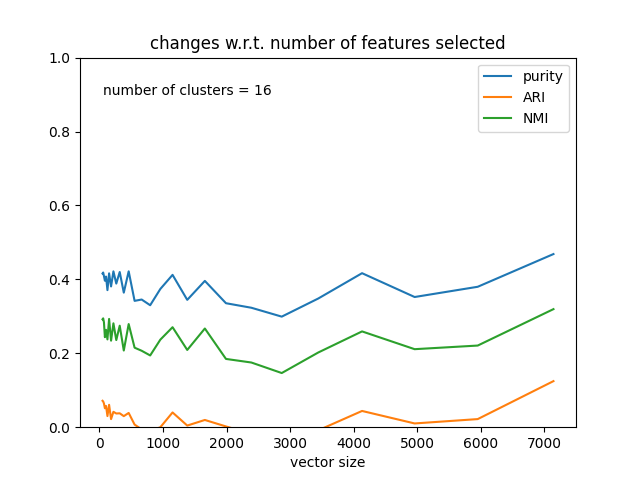
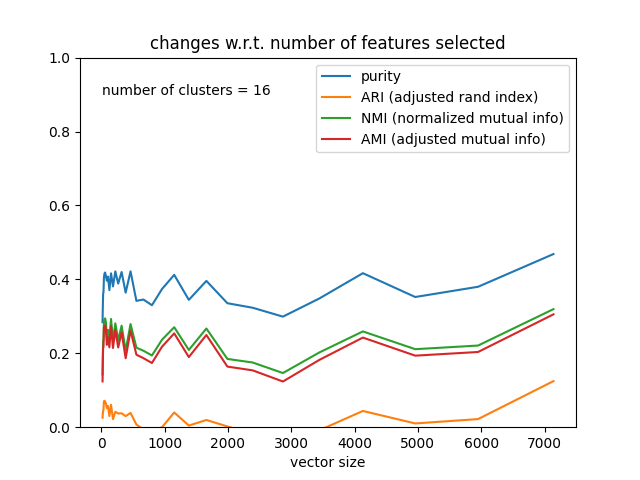
some graphs

diff --git a/Phase3/KMeansClustering.py b/Phase3/KMeansClustering.py
@@ -25,7 +25,7 @@ class KMeansClustering:
             cls.vector_list = TFIDF.document_vector_list
             cls.reference_label_list = TFIDF.reference_label_list
         elif vectorization_mode == WORD2VEC_MODE:
-            w2v = Word2vec(4, 2000, 3, 3, 1)
+            w2v = Word2vec(2, 2000, 3, 3, 1)
             cls.vector_list, cls.link_list, cls.reference_label_list = w2v.createVectorsOfSentenceByPath(FARSI_DOCUMENTS_PATH)
 
     @classmethod
@@ -75,7 +75,7 @@ class KMeansClustering:
 
     @classmethod
     def evaluate(cls):
-        return evaluate_clustering(cls.get_k(), cls.label_list, cls.reference_label_list)
+        return evaluate_clustering(cls.label_list, cls.reference_label_list)
 
     @classmethod
     def get_graphical_results(cls, vectorization_mode=TFIDF_MODE):
@@ -87,7 +87,7 @@ class KMeansClustering:
         AMI_list = []
 
         cls.cluster(vectorization_mode=vectorization_mode)
-        evaluation = evaluate_clustering(cls.get_k(), cls.label_list, cls.reference_label_list)
+        evaluation = evaluate_clustering(cls.label_list, cls.reference_label_list)
         k = len(cls.vector_list[0])
         k_list.append(k)
         purity_list.append(evaluation['purity'])
@@ -99,24 +99,26 @@ class KMeansClustering:
         while k > cls.get_k():
             new_vectors = cls.select_k_best_features(k)
             cls.cluster(vectors=new_vectors, vectorization_mode=vectorization_mode)
-            evaluation = evaluate_clustering(cls.get_k(), cls.label_list, cls.reference_label_list)
+            evaluation = evaluate_clustering(cls.label_list, cls.reference_label_list)
             k_list.append(k)
             purity_list.append(evaluation['purity'])
             ARI_list.append(evaluation['ARI'])
             NMI_list.append(evaluation['NMI'])
             AMI_list.append(evaluation['AMI'])
+            print(k, evaluation)
             k = int(k / 1.2)
 
         plt.plot(k_list, purity_list, label='purity')
-        plt.plot(k_list, ARI_list, label='ARI')
-        plt.plot(k_list, NMI_list, label='NMI')
+        plt.plot(k_list, ARI_list, label='ARI (adjusted rand index)')
+        plt.plot(k_list, NMI_list, label='NMI (normalized mutual info)')
+        plt.plot(k_list, AMI_list, label='AMI (adjusted mutual info)')
         plt.ylim(0, 1)
         plt.xlabel('vector size')
         plt.legend()
         plt.text(k, 0.9, f'number of clusters = {cls.get_k()}')
         plt.title('changes w.r.t. number of features selected')
         if vectorization_mode == TFIDF_MODE:
-            plt.savefig('data/kmeans_tfidf_plot_3.png')
+            plt.savefig('data/kmeans_tfidf_plot_4.png')
         elif vectorization_mode == WORD2VEC_MODE:
             plt.savefig('data/kmeans_word2vec_plot_3.png')
         plt.close()
@@ -124,11 +126,14 @@ class KMeansClustering:
 
 if __name__ == '__main__':
     # change this
-    mode = WORD2VEC_MODE
+    # mode = WORD2VEC_MODE
+    #
+    # KMeansClustering.start(vectorization_mode=mode)
+    # vectors = None
+    # if mode == TFIDF_MODE:
+    #     vectors = KMeansClustering.select_k_best_features(3500)
+    # KMeansClustering.cluster(vectors=vectors, vectorization_mode=mode)
+    # vs = len(KMeansClustering.vector_list[0])
+    # print(vs, KMeansClustering.evaluate())
 
-    KMeansClustering.start(vectorization_mode=mode)
-    vectors = None
-    if mode == TFIDF_MODE:
-        vectors = KMeansClustering.select_k_best_features(3500)
-    KMeansClustering.cluster(vectors=vectors, vectorization_mode=mode)
-    print(KMeansClustering.evaluate())
+    KMeansClustering.get_graphical_results(WORD2VEC_MODE)

diff --git a/Phase3/GMMClustering.py b/Phase3/GMMClustering.py
@@ -41,7 +41,7 @@ class GMMClustering:
 
     @classmethod
     def get_n_components(cls):
-        return int(sqrt(len(cls.link_list))) + 1
+        return int(sqrt(len(cls.link_list)) * 0.72) + 1
 
     @classmethod
     def write_results_to_file(cls, mode):
@@ -74,7 +74,7 @@ class GMMClustering:
 
     @classmethod
     def evaluate(cls):
-        return evaluate_clustering(cls.get_n_components(), cls.label_list, cls.reference_label_list)
+        return evaluate_clustering(cls.label_list, cls.reference_label_list)
 
     @classmethod
     def get_graphical_results(cls, vectorization_mode=TFIDF_MODE):
@@ -89,7 +89,7 @@ class GMMClustering:
         while k < 680:
             new_vectors = cls.select_k_best_features(k)
             cls.cluster(vectors=new_vectors, vectorization_mode=vectorization_mode)
-            evaluation = evaluate_clustering(cls.get_n_components(), cls.label_list, cls.reference_label_list)
+            evaluation = evaluate_clustering(cls.label_list, cls.reference_label_list)
             k_list.append(k)
             purity_list.append(evaluation['purity'])
             ARI_list.append(evaluation['ARI'])
@@ -108,7 +108,7 @@ class GMMClustering:
         plt.text(cls.get_n_components(), 0.9, f'number of clusters = {cls.get_n_components()}')
         plt.title('changes w.r.t. number of features selected')
         if vectorization_mode == TFIDF_MODE:
-            plt.savefig('data/gmm_tfidf_plot_3.png')
+            plt.savefig('data/gmm_tfidf_plot_4.png')
         elif vectorization_mode == WORD2VEC_MODE:
             plt.savefig('data/gmm_word2vec_plot_3.png')
         plt.close()
@@ -118,7 +118,9 @@ if __name__ == '__main__':
     # change this
     mode = Word2vec
 
-    GMMClustering.start(TFIDF_MODE)
+    GMMClustering.start(mode)
     vectors = GMMClustering.select_k_best_features(150)
-    GMMClustering.cluster(vectors=vectors, vectorization_mode=TFIDF_MODE)
+    GMMClustering.cluster(vectors=vectors, vectorization_mode=mode)
     print(GMMClustering.evaluate())
+
+    # GMMClustering.get_graphical_results(TFIDF_MODE)

diff --git a/Phase3/Utils.py b/Phase3/Utils.py
@@ -14,16 +14,17 @@ def write_to_file(path, link_list: list, label_list: list, reference_label_list:
             csv_writer.writerow([link_list[i], str(label_list[i]), reference_label_list[i]])
 
 
-def evaluate_clustering(n_clusters, label_list: list, reference_label_list: list):
+def evaluate_clustering(label_list: list, reference_label_list: list):
     evaluation = dict()
-    evaluation['purity'] = round(calculate_purity(n_clusters, label_list, reference_label_list), 6)
+    evaluation['purity'] = round(calculate_purity(label_list, reference_label_list), 6)
     evaluation['ARI'] = round(adjusted_rand_score(reference_label_list, label_list), 6)
     evaluation['NMI'] = round(normalized_mutual_info_score(reference_label_list, label_list), 6)
     evaluation['AMI'] = round(adjusted_mutual_info_score(reference_label_list, label_list), 6)
     return evaluation
 
 
-def calculate_purity(n_clusters, label_list: list, reference_label_list: list):
+def calculate_purity(label_list: list, reference_label_list: list):
+    n_clusters = len(set(label_list))
     reference_labels_for_each_cluster = [[] for _ in range(n_clusters)]
     for i, label in enumerate(label_list):
         reference_labels_for_each_cluster[label].append(reference_label_list[i])
